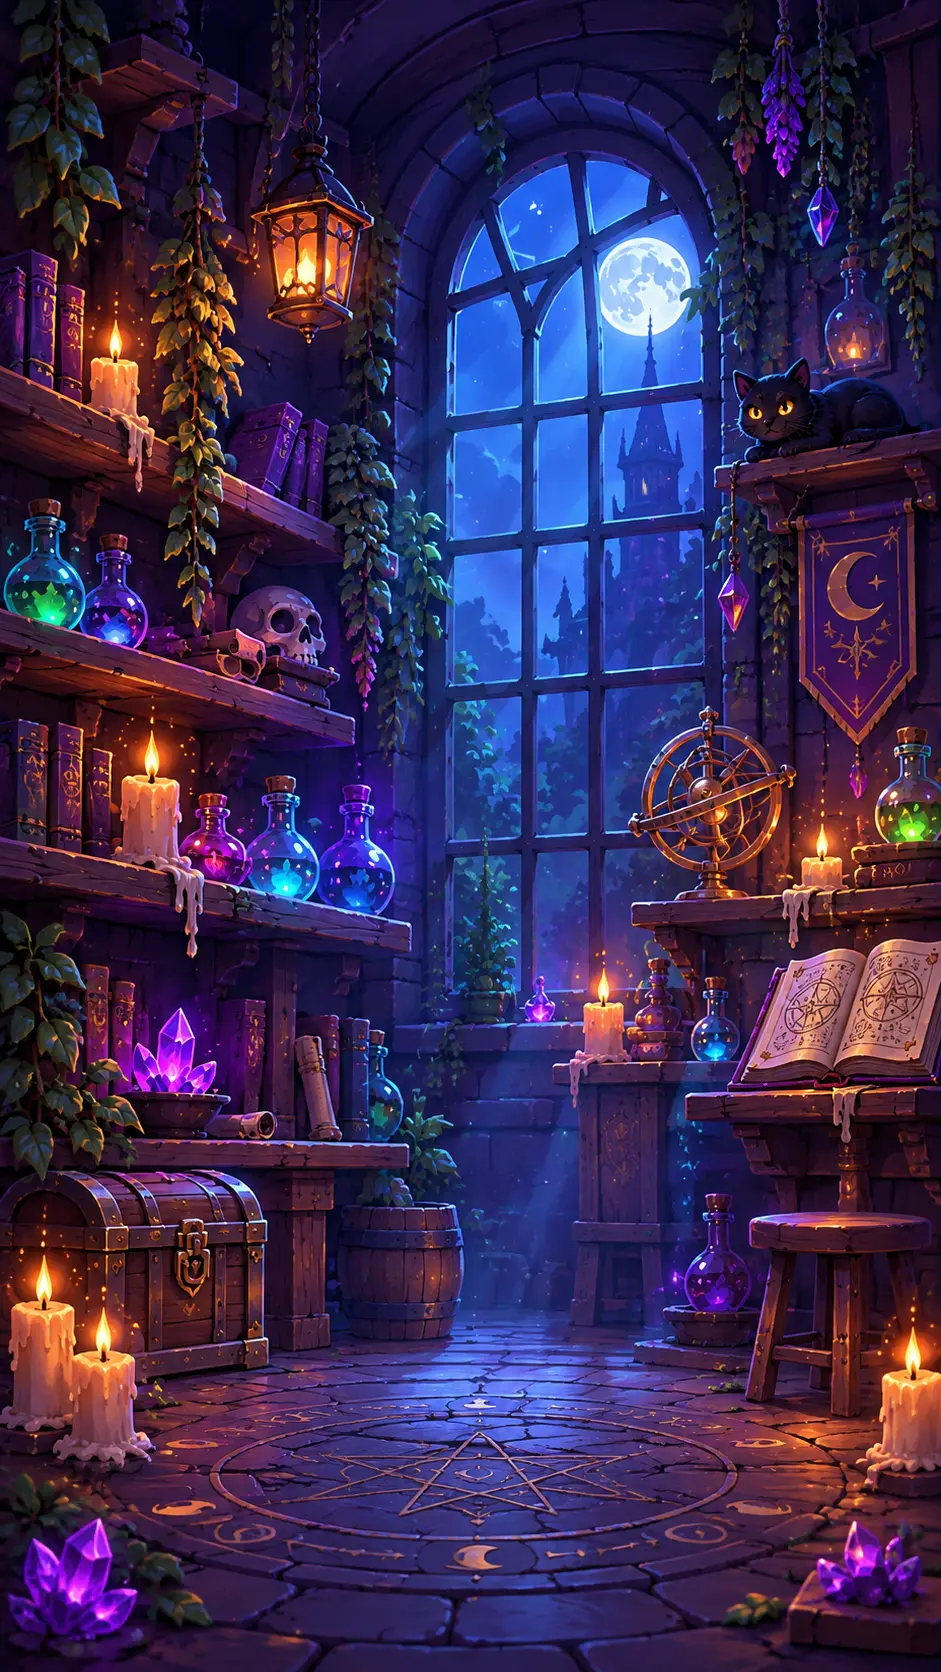
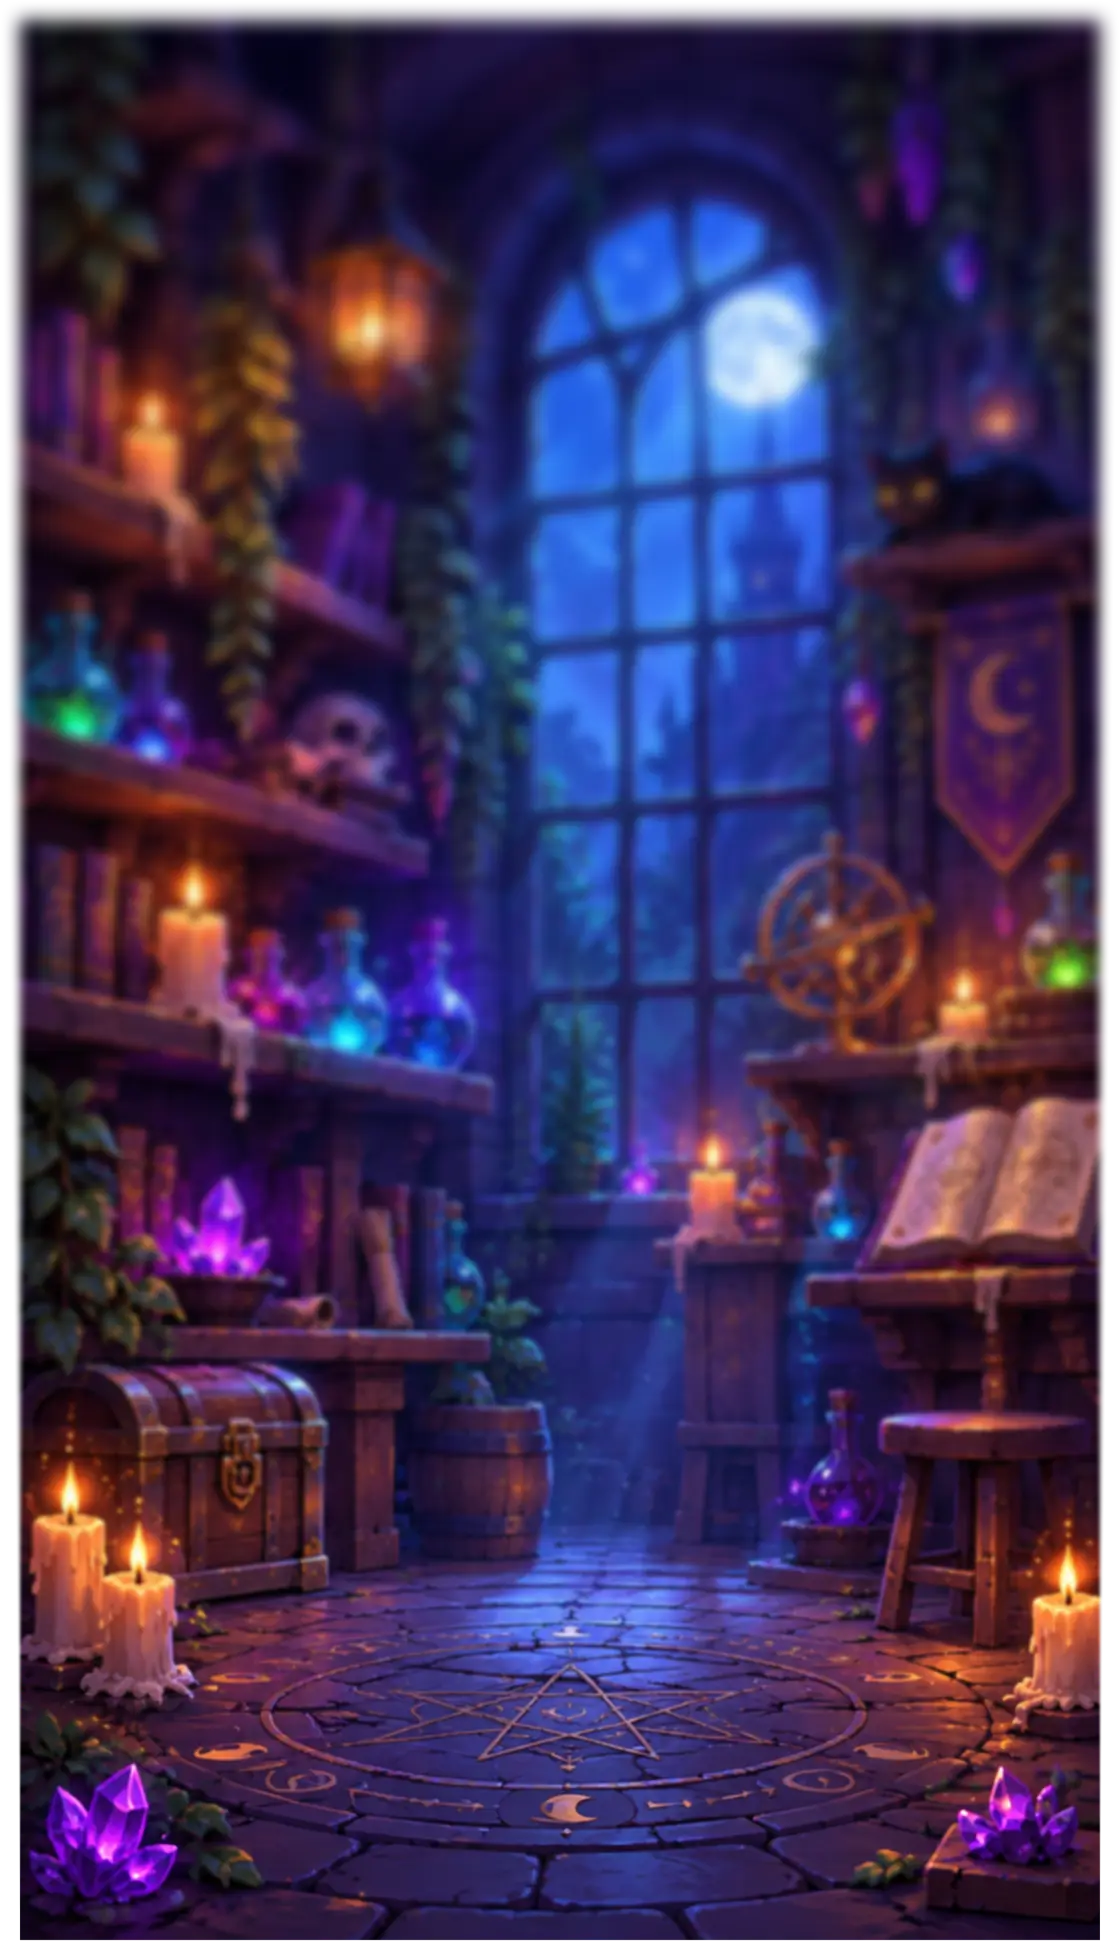
feat: add cauldron and first ingredient

diff --git a/src/game/scenes/createGameScene.ts b/src/game/scenes/createGameScene.ts
@@ -1,8 +1,13 @@
 import { Assets, Container, Graphics, Sprite } from "pixi.js";
-import { GAME_HEIGHT, GAME_WIDTH } from "../constants/config/config";
+import { GAME_HEIGHT, GAME_WIDTH } from "../constants/config/config.constants";
+import { createCauldron } from "../objects/cauldron/createCauldron";
+import { cauldronLayout } from "../objects/cauldron/constants/cauldron.constants";
+import { createIngredient } from "../objects/ingredient/createIngredient";
 
 export async function createGameScene(): Promise<Container> {
   const scene = new Container();
+
+  //background
 
   const texture = await Assets.load("/assets/backgrounds/lab.webp");
 
@@ -10,6 +15,8 @@ export async function createGameScene(): Promise<Container> {
 
   background.anchor.set(0.5);
   background.position.set(GAME_WIDTH / 2, GAME_HEIGHT / 2);
+
+  //general
 
   const scale = Math.max(
     GAME_WIDTH / texture.width,
@@ -25,6 +32,34 @@ export async function createGameScene(): Promise<Container> {
   scene.addChild(background, bounds);
 
   scene.mask = bounds;
+
+  //cauldron
+
+  const cauldron = await createCauldron();
+
+  const cauldronWidth = GAME_WIDTH * cauldronLayout.cauldron.widthRatio;
+  cauldron.scale.set(cauldronWidth / cauldron.width);
+  cauldron.position.set(
+    GAME_WIDTH / 2,
+    GAME_HEIGHT - GAME_HEIGHT * cauldronLayout.cauldron.centerFromBottomRatio,
+  );
+
+  scene.addChild(cauldron);
+
+  //flower
+
+  const flower = await createIngredient({
+    id: "flower",
+    textureUrl: "/assets/ingredients/flower.webp",
+    size: 200,
+    onSelect: (id) => {
+      console.log("Тыкнут:", id);
+    },
+  });
+
+  flower.position.set(540, 760);
+
+  scene.addChild(flower);
 
   return scene;
 }

diff --git a/src/game/objects/cauldron/createCauldron.ts b/src/game/objects/cauldron/createCauldron.ts
@@ -1,0 +1,29 @@
+import { Assets, Container, Sprite } from "pixi.js";
+import { cauldronLayout } from "./constants/cauldron.constants";
+
+export async function createCauldron(): Promise<Container> {
+  const cauldron = new Container();
+
+  const texture = await Assets.load("/assets/cauldron/cauldron.webp");
+  const liquidTexture = await Assets.load(
+    "/assets/cauldron/liquid-turquoise.webp",
+  );
+
+  const body = new Sprite(texture);
+  const liquid = new Sprite(liquidTexture);
+
+  body.anchor.set(0.5, 1);
+
+  liquid.anchor.set(0.5);
+
+  liquid.width = body.width * cauldronLayout.liquid.widthRatio;
+  liquid.height = body.height * cauldronLayout.liquid.heightRatio;
+  liquid.position.set(
+    0,
+    -body.height * cauldronLayout.liquid.centerFromBottomRatio,
+  );
+
+  cauldron.addChild(body, liquid);
+
+  return cauldron;
+}

diff --git a/src/game/objects/ingredient/createIngredient.ts b/src/game/objects/ingredient/createIngredient.ts
@@ -1,0 +1,24 @@
+import { Assets, Sprite } from "pixi.js";
+import type { IngredientOptions } from "./types/ingredient.types";
+
+export async function createIngredient(
+  options: IngredientOptions,
+): Promise<Sprite> {
+  const texture = await Assets.load(options.textureUrl);
+
+  const ingredient = new Sprite(texture);
+
+  ingredient.anchor.set(0.5);
+
+  const scale = options.size / Math.max(texture.width, texture.height);
+
+  ingredient.scale.set(scale);
+
+  ((ingredient.eventMode = "static"), (ingredient.cursor = "pointer"));
+
+  ingredient.on("pointertap", () => {
+    options.onSelect(options.id);
+  });
+
+  return ingredient;
+}

diff --git a/src/game/layout/fitScene.ts b/src/game/layout/fitScene.ts
@@ -1,5 +1,5 @@
 import type { Container } from "pixi.js";
-import { GAME_HEIGHT, GAME_WIDTH } from "../constants/config/config";
+import { GAME_HEIGHT, GAME_WIDTH } from "../constants/config/config.constants";
 
 export function fitScene(scene: Container, width: number, height: number) {
   const scale = Math.min(width / GAME_WIDTH, height / GAME_HEIGHT);

diff --git a/src/game/objects/cauldron/constants/cauldron.constants.ts b/src/game/objects/cauldron/constants/cauldron.constants.ts
@@ -1,0 +1,11 @@
+export const cauldronLayout = {
+  cauldron: {
+    widthRatio: 0.75,
+    centerFromBottomRatio: 0.08,
+  },
+  liquid: {
+    widthRatio: 0.58,
+    heightRatio: 0.17,
+    centerFromBottomRatio: 0.865,
+  },
+} as const;

diff --git a/src/game/objects/ingredient/types/ingredient.types.ts b/src/game/objects/ingredient/types/ingredient.types.ts
@@ -1,0 +1,6 @@
+export interface IngredientOptions {
+  id: string;
+  textureUrl: string;
+  size: number;
+  onSelect: (id: string) => void;
+}
